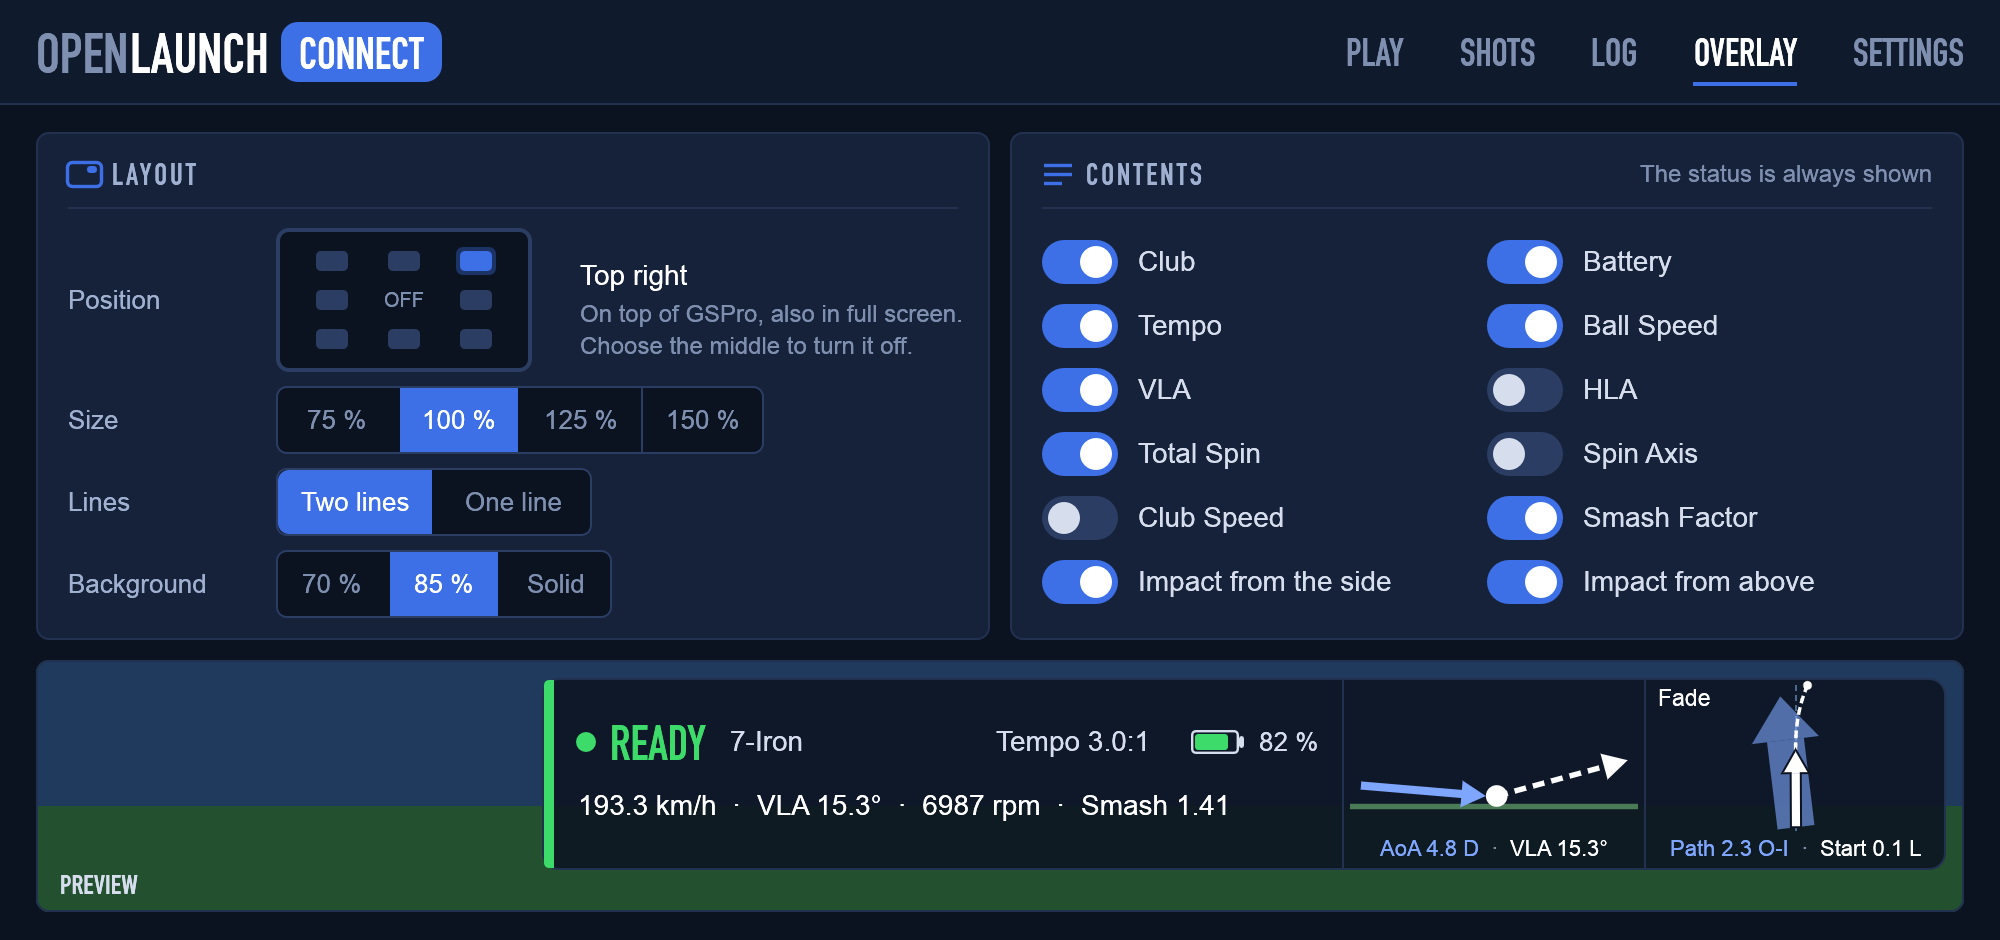
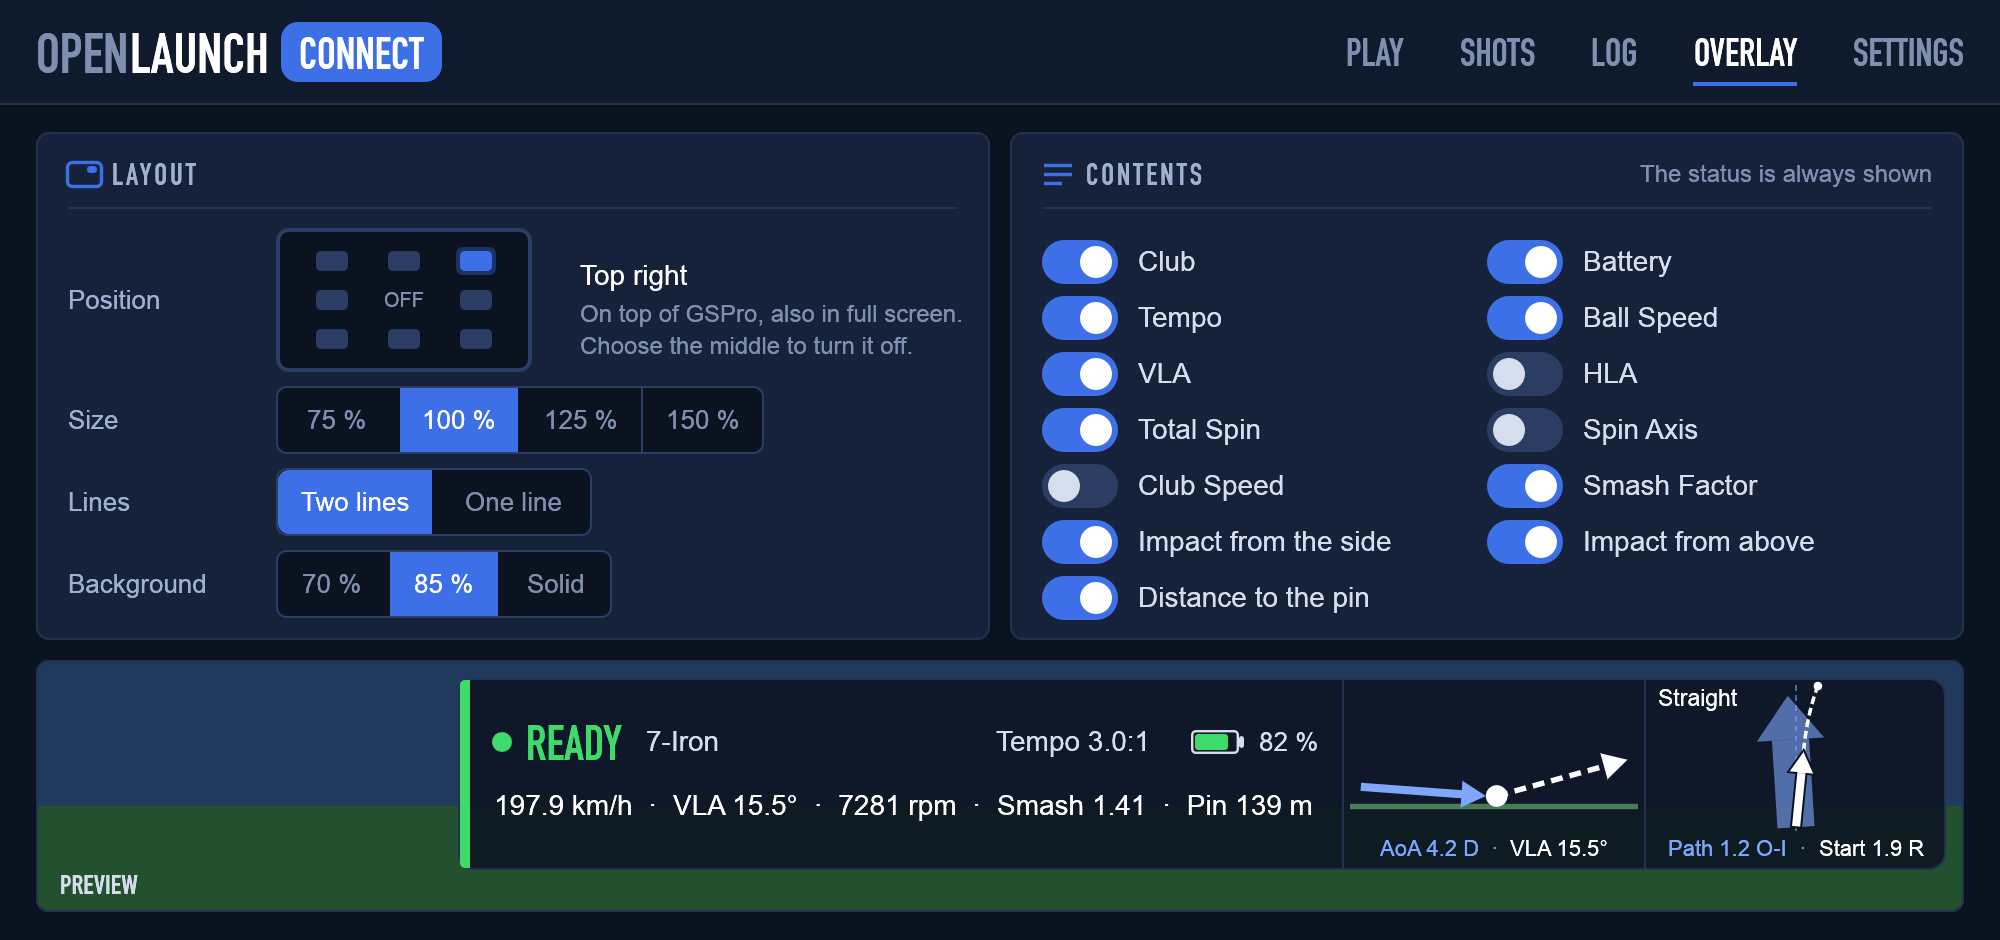
Overlay: distance to the pin from GSPro's results
A toggle on the overlay page adds "Pin 139 m" (or yd) to the values, taken
from GSPro's latest result; cleared when the next shot is sent.

diff --git a/src/bin/openlaunch-connect.rs b/src/bin/openlaunch-connect.rs
@@ -777,7 +777,7 @@ impl App {
             return;
         };
         let style = &self.saved.overlay_style;
-        let content = OverlayContent::live(style, self.saved.metric);
+        let content = OverlayContent::live(style, self.saved.metric, self.saved.meters);
         let base = content.size(ctx);
         // Sizes are in points, which grow with the main window's zoom; divide it out so the
         // overlay keeps its size on screen however large the main window is.
@@ -850,7 +850,7 @@ impl App {
 
         card(ui, right, tr("CONTENTS"), Icon::List, |ui| {
             let s = &mut style;
-            let items: [(&mut bool, &str); 12] = [
+            let items: [(&mut bool, &str); 13] = [
                 (&mut s.club, tr("Club")),
                 (&mut s.battery, tr("Battery")),
                 (&mut s.tempo, tr("Tempo")),
@@ -863,11 +863,12 @@ impl App {
                 (&mut s.smash, tr("Smash Factor")),
                 (&mut s.impact_side, tr("Impact from the side")),
                 (&mut s.impact_top, tr("Impact from above")),
+                (&mut s.to_pin, tr("Distance to the pin")),
             ];
             let body = ui.max_rect();
             let cell_w = body.width() / 2.0;
             for (i, (on, label)) in items.into_iter().enumerate() {
-                let r = Rect::from_min_size(body.min + vec2((i % 2) as f32 * cell_w, (i / 2) as f32 * 32.0), vec2(cell_w, 30.0));
+                let r = Rect::from_min_size(body.min + vec2((i % 2) as f32 * cell_w, (i / 2) as f32 * 28.0), vec2(cell_w, 26.0));
                 ui.scope_builder(egui::UiBuilder::new().max_rect(r).layout(egui::Layout::left_to_right(egui::Align::Center)), |ui| {
                     toggle(ui, on, label);
                 });
@@ -919,7 +920,8 @@ impl App {
             return;
         };
         let ready = (R10Status::Ready, "", true);
-        let content = OverlayContent::new(style, self.saved.metric, ready, Some("I7"), Some(82), Some(&self.preview_shot));
+        let pin = Some(pin_text(139.0, self.saved.meters));
+        let content = OverlayContent::new(style, self.saved.metric, ready, Some("I7"), Some(82), Some(&self.preview_shot), pin);
         let size = content.size(ui.ctx());
         let pad = 9.0;
         let room = area.size() - vec2(2.0 * pad, 2.0 * pad);
@@ -1715,11 +1717,13 @@ struct Impact {
 
 impl OverlayContent {
     /// From the shared status.
-    fn live(style: &OverlayStyle, metric: bool) -> Self {
-        let (r10, r10_detail, gs_ok, club, battery, last) = state::with(|s| {
-            (s.r10, s.r10_detail.clone(), s.gspro_connected, s.gspro_club.clone(), s.r10_battery, s.last_shot.clone())
+    fn live(style: &OverlayStyle, metric: bool, meters: bool) -> Self {
+        let (r10, r10_detail, gs_ok, club, battery, last, to_pin) = state::with(|s| {
+            let to_pin = s.gspro_result.and_then(|r| r.to_pin);
+            (s.r10, s.r10_detail.clone(), s.gspro_connected, s.gspro_club.clone(), s.r10_battery, s.last_shot.clone(), to_pin)
         });
-        Self::new(style, metric, (r10, &r10_detail, gs_ok), club.as_deref(), battery, last.as_ref())
+        let pin = to_pin.map(|m| pin_text(m, meters));
+        Self::new(style, metric, (r10, &r10_detail, gs_ok), club.as_deref(), battery, last.as_ref(), pin)
     }
 
     fn new(
@@ -1729,6 +1733,7 @@ impl OverlayContent {
         club: Option<&str>,
         battery: Option<u8>,
         last: Option<&state::LastShot>,
+        pin: Option<String>,
     ) -> Self {
         let (color, word) = status_word(r10, gs_ok);
         let ready = r10 == R10Status::Ready && gs_ok;
@@ -1742,6 +1747,7 @@ impl OverlayContent {
             (Some(s), true) if !s.delivered => (tr("Last shot NOT delivered to GSPro").to_string(), AMBER),
             (Some(s), true) => {
                 let mut values = shot_values(s, style, metric);
+                values.extend(pin.filter(|_| style.to_pin));
                 // One line: the tempo joins the values instead of sitting next to the battery.
                 if style.one_line {
                     values.extend(tempo.clone());
@@ -1800,6 +1806,11 @@ impl OverlayContent {
 }
 
 /// The chosen values of a shot, e.g. "198.3 km/h", "VLA 16.5°", "7146 rpm".
+/// "Pin 139 m": the distance left to the pin, in metres or yards.
+fn pin_text(m: f64, meters: bool) -> String {
+    if meters { format!("{} {m:.0} m", tr("Pin")) } else { format!("{} {:.0} yd", tr("Pin"), m * M_TO_YD) }
+}
+
 fn shot_values(s: &state::LastShot, style: &OverlayStyle, metric: bool) -> Vec<String> {
     let (factor, unit) = if metric { (MPH_TO_KMH, "km/h") } else { (1.0, "mph") };
     let b = &s.ball;
@@ -2295,7 +2306,7 @@ mod tests {
             .build_ui(|ui| {
                 // Fonts set in one frame apply from the next; draw only once they are there.
                 if ui.ctx().fonts(|f| f.families().contains(&FontFamily::Name("cond".into()))) {
-                    let content = OverlayContent::live(&OverlayStyle::default(), true);
+                    let content = OverlayContent::live(&OverlayStyle::default(), true, true);
                     let rect = Rect::from_min_size(ui.max_rect().min, content.size(ui.ctx()));
                     size_out.set(rect);
                     overlay_ui(ui.painter(), rect, &content);

diff --git a/src/i18n.rs b/src/i18n.rs
@@ -200,6 +200,8 @@ fn de(en: &str) -> Option<&'static str> {
         "Language" => "Sprache",
         "System" => "System",
         "Interface" => "Oberfläche",
+        "Pin" => "Fahne",
+        "Distance to the pin" => "Zur Fahne",
         "Carry, total, apex, side and landing angle as GSPro computed them" => "Carry, Gesamt, Scheitelhöhe, Seitlich und Landewinkel so, wie GSPro sie berechnet hat",
         "GSPro results" => "GSPro-Werte",
         "Carry, total, apex and side as GSPro computed them, where it did; else the estimate (*)" => "Carry, Gesamt, Scheitelhöhe und Seitlich so, wie GSPro sie berechnet hat, wo vorhanden; sonst die Schätzung (*)",

diff --git a/src/settings.rs b/src/settings.rs
@@ -266,6 +266,8 @@ pub struct OverlayStyle {
     /// club path and start direction from above.
     pub impact_side: bool,
     pub impact_top: bool,
+    /// Distance left to the pin after the shot (from GSPro's results).
+    pub to_pin: bool,
 }
 
 impl Default for OverlayStyle {
@@ -287,6 +289,7 @@ impl Default for OverlayStyle {
             smash: true,
             impact_side: true,
             impact_top: true,
+            to_pin: true,
         }
     }
 }

diff --git a/src/gspro.rs b/src/gspro.rs
@@ -397,6 +397,8 @@ fn record_shot(ball: GsBall, club: Option<GsClub>, tempo: Option<Tempo>, deliver
             s.shots_sent += 1;
         }
         s.last_shot = Some(state::LastShot { ball, club, tempo, at: Instant::now(), delivered, shot_number });
+        // GSPro's result of the previous shot no longer applies (the new one follows when it lands).
+        s.gspro_result = None;
         if test {
             return None;
         }

diff --git a/CHANGELOG.md b/CHANGELOG.md
@@ -7,6 +7,8 @@ The format is based on [Keep a Changelog](https://keepachangelog.com/en/1.1.0/),
 ## [Unreleased]
 
 ### Added
+- **Distance to the pin in the overlay** (Overlay page → *Distance to the pin*): after a shot on a course, the overlay
+  shows how far the ball is left from the pin, from GSPro's results (e.g. *Pin 139 m*, in yards with yd).
 - **GSPro's own flight results:** after each shot the app reads GSPro's carry, total, apex, offline and landing angle
   from GSPro's database in the CrossOver bottle (read-only) and keeps them with the shot. The chip *GSPro results*
   on the shots page shows them in the tables, details, dispersion and 3D tiles instead of the estimate, where GSPro
